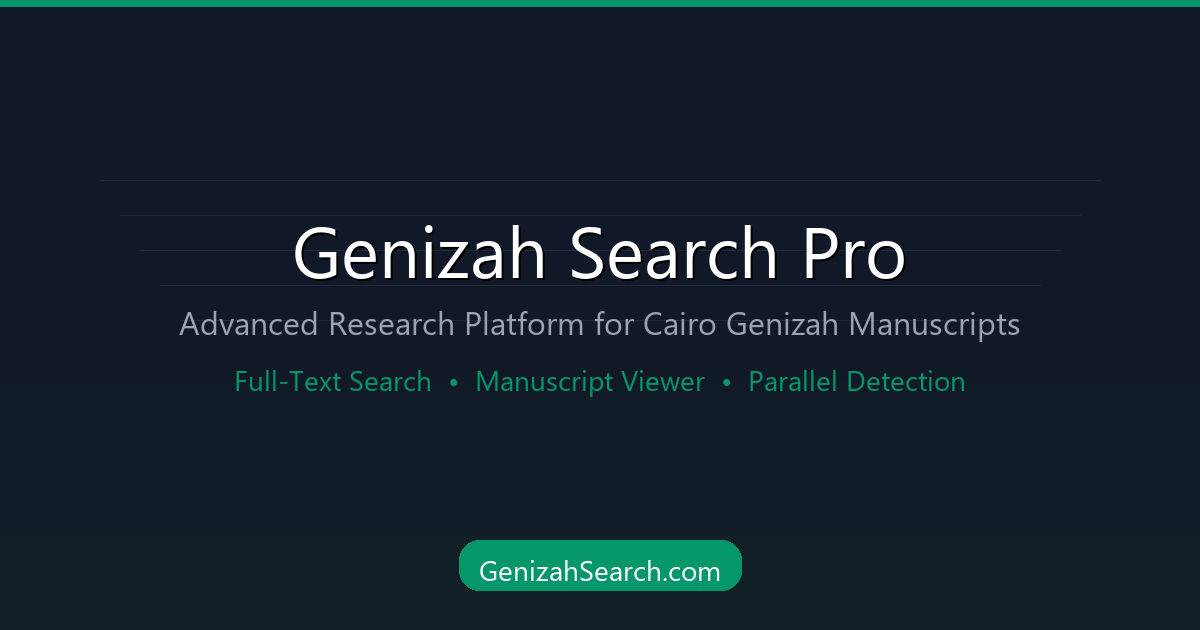
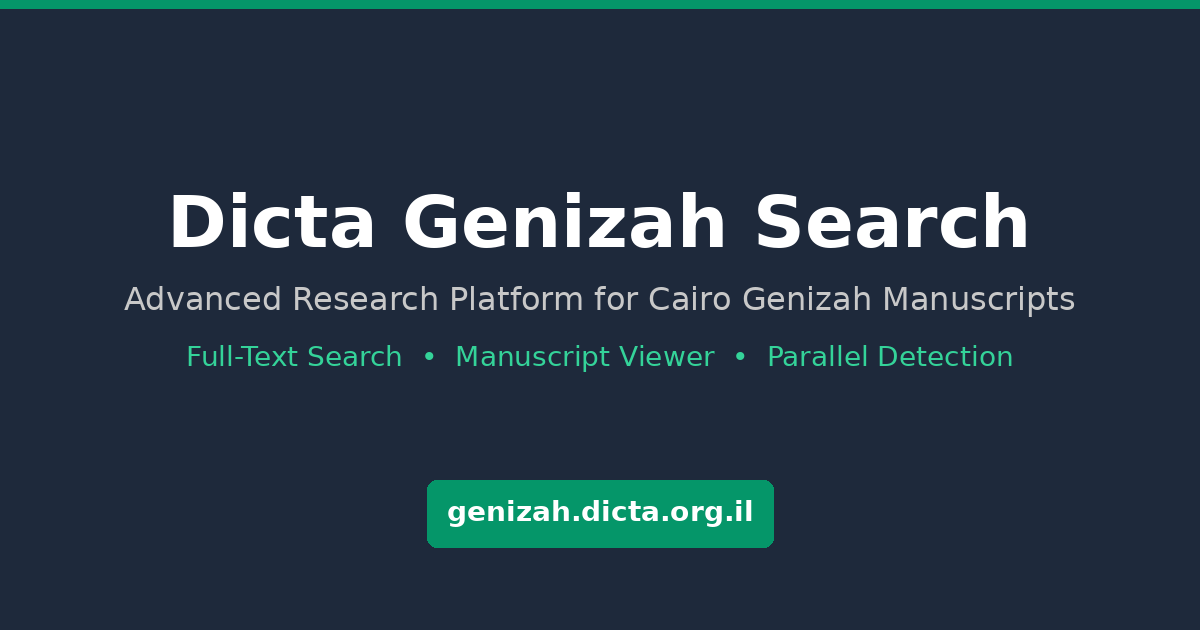
Update OG preview image for Dicta Genizah Search
New preview shows:
- Title: Dicta Genizah Search
- URL: genizah.dicta.org.il
- Same features list and styling

Changed region(s): [[0.0925, 0.3016, 0.8942, 0.6333], [0.3392, 0.754, 0.6475, 0.9651], [0.0, 0.0, 1.0, 0.0302]]

diff --git a/create_og_image.py b/create_og_image.py
@@ -1,0 +1,99 @@
+#!/usr/bin/env python3
+"""Generate Open Graph preview image for Dicta Genizah Search."""
+
+from PIL import Image, ImageDraw, ImageFont
+import os
+
+# Image dimensions (standard OG size)
+WIDTH = 1200
+HEIGHT = 630
+
+# Colors
+BG_COLOR = (30, 41, 59)  # Dark slate
+ACCENT_COLOR = (5, 150, 105)  # Green
+TEXT_COLOR = (255, 255, 255)
+SUBTITLE_COLOR = (200, 200, 200)
+FEATURE_COLOR = (52, 211, 153)  # Light green
+
+def create_og_image(
+    title="Dicta Genizah Search",
+    subtitle="Advanced Research Platform for Cairo Genizah Manuscripts",
+    features="Full-Text Search  •  Manuscript Viewer  •  Parallel Detection",
+    url="genizah.dicta.org.il",
+    output_path="web/static/og-image.png"
+):
+    # Create image
+    img = Image.new('RGB', (WIDTH, HEIGHT), BG_COLOR)
+    draw = ImageDraw.Draw(img)
+
+    # Draw accent bar at top
+    draw.rectangle([0, 0, WIDTH, 8], fill=ACCENT_COLOR)
+
+    # Try to load fonts (fallback to default if not available)
+    try:
+        font_title = ImageFont.truetype("/usr/share/fonts/truetype/dejavu/DejaVuSans-Bold.ttf", 72)
+        font_subtitle = ImageFont.truetype("/usr/share/fonts/truetype/dejavu/DejaVuSans.ttf", 32)
+        font_features = ImageFont.truetype("/usr/share/fonts/truetype/dejavu/DejaVuSans.ttf", 28)
+        font_url = ImageFont.truetype("/usr/share/fonts/truetype/dejavu/DejaVuSans-Bold.ttf", 28)
+    except:
+        font_title = ImageFont.load_default()
+        font_subtitle = font_title
+        font_features = font_title
+        font_url = font_title
+
+    # Draw title (centered)
+    title_bbox = draw.textbbox((0, 0), title, font=font_title)
+    title_width = title_bbox[2] - title_bbox[0]
+    title_x = (WIDTH - title_width) // 2
+    draw.text((title_x, 180), title, font=font_title, fill=TEXT_COLOR)
+
+    # Draw subtitle (centered)
+    sub_bbox = draw.textbbox((0, 0), subtitle, font=font_subtitle)
+    sub_width = sub_bbox[2] - sub_bbox[0]
+    sub_x = (WIDTH - sub_width) // 2
+    draw.text((sub_x, 280), subtitle, font=font_subtitle, fill=SUBTITLE_COLOR)
+
+    # Draw features (centered)
+    feat_bbox = draw.textbbox((0, 0), features, font=font_features)
+    feat_width = feat_bbox[2] - feat_bbox[0]
+    feat_x = (WIDTH - feat_width) // 2
+    draw.text((feat_x, 340), features, font=font_features, fill=FEATURE_COLOR)
+
+    # Draw URL button at bottom
+    url_bbox = draw.textbbox((0, 0), url, font=font_url)
+    url_width = url_bbox[2] - url_bbox[0]
+    url_height = url_bbox[3] - url_bbox[1]
+
+    btn_padding = 20
+    btn_width = url_width + btn_padding * 2
+    btn_height = url_height + btn_padding * 2
+    btn_x = (WIDTH - btn_width) // 2
+    btn_y = 480
+
+    # Draw rounded rectangle for button
+    draw.rounded_rectangle(
+        [btn_x, btn_y, btn_x + btn_width, btn_y + btn_height],
+        radius=10,
+        fill=ACCENT_COLOR
+    )
+
+    # Draw URL text
+    url_x = btn_x + btn_padding
+    url_y = btn_y + btn_padding - 5
+    draw.text((url_x, url_y), url, font=font_url, fill=TEXT_COLOR)
+
+    # Save
+    script_dir = os.path.dirname(os.path.abspath(__file__))
+    full_path = os.path.join(script_dir, output_path)
+    img.save(full_path, 'PNG')
+    print(f"Created: {full_path}")
+    return full_path
+
+
+if __name__ == "__main__":
+    import sys
+    if len(sys.argv) > 1:
+        # Custom title from command line
+        create_og_image(title=sys.argv[1])
+    else:
+        create_og_image()
